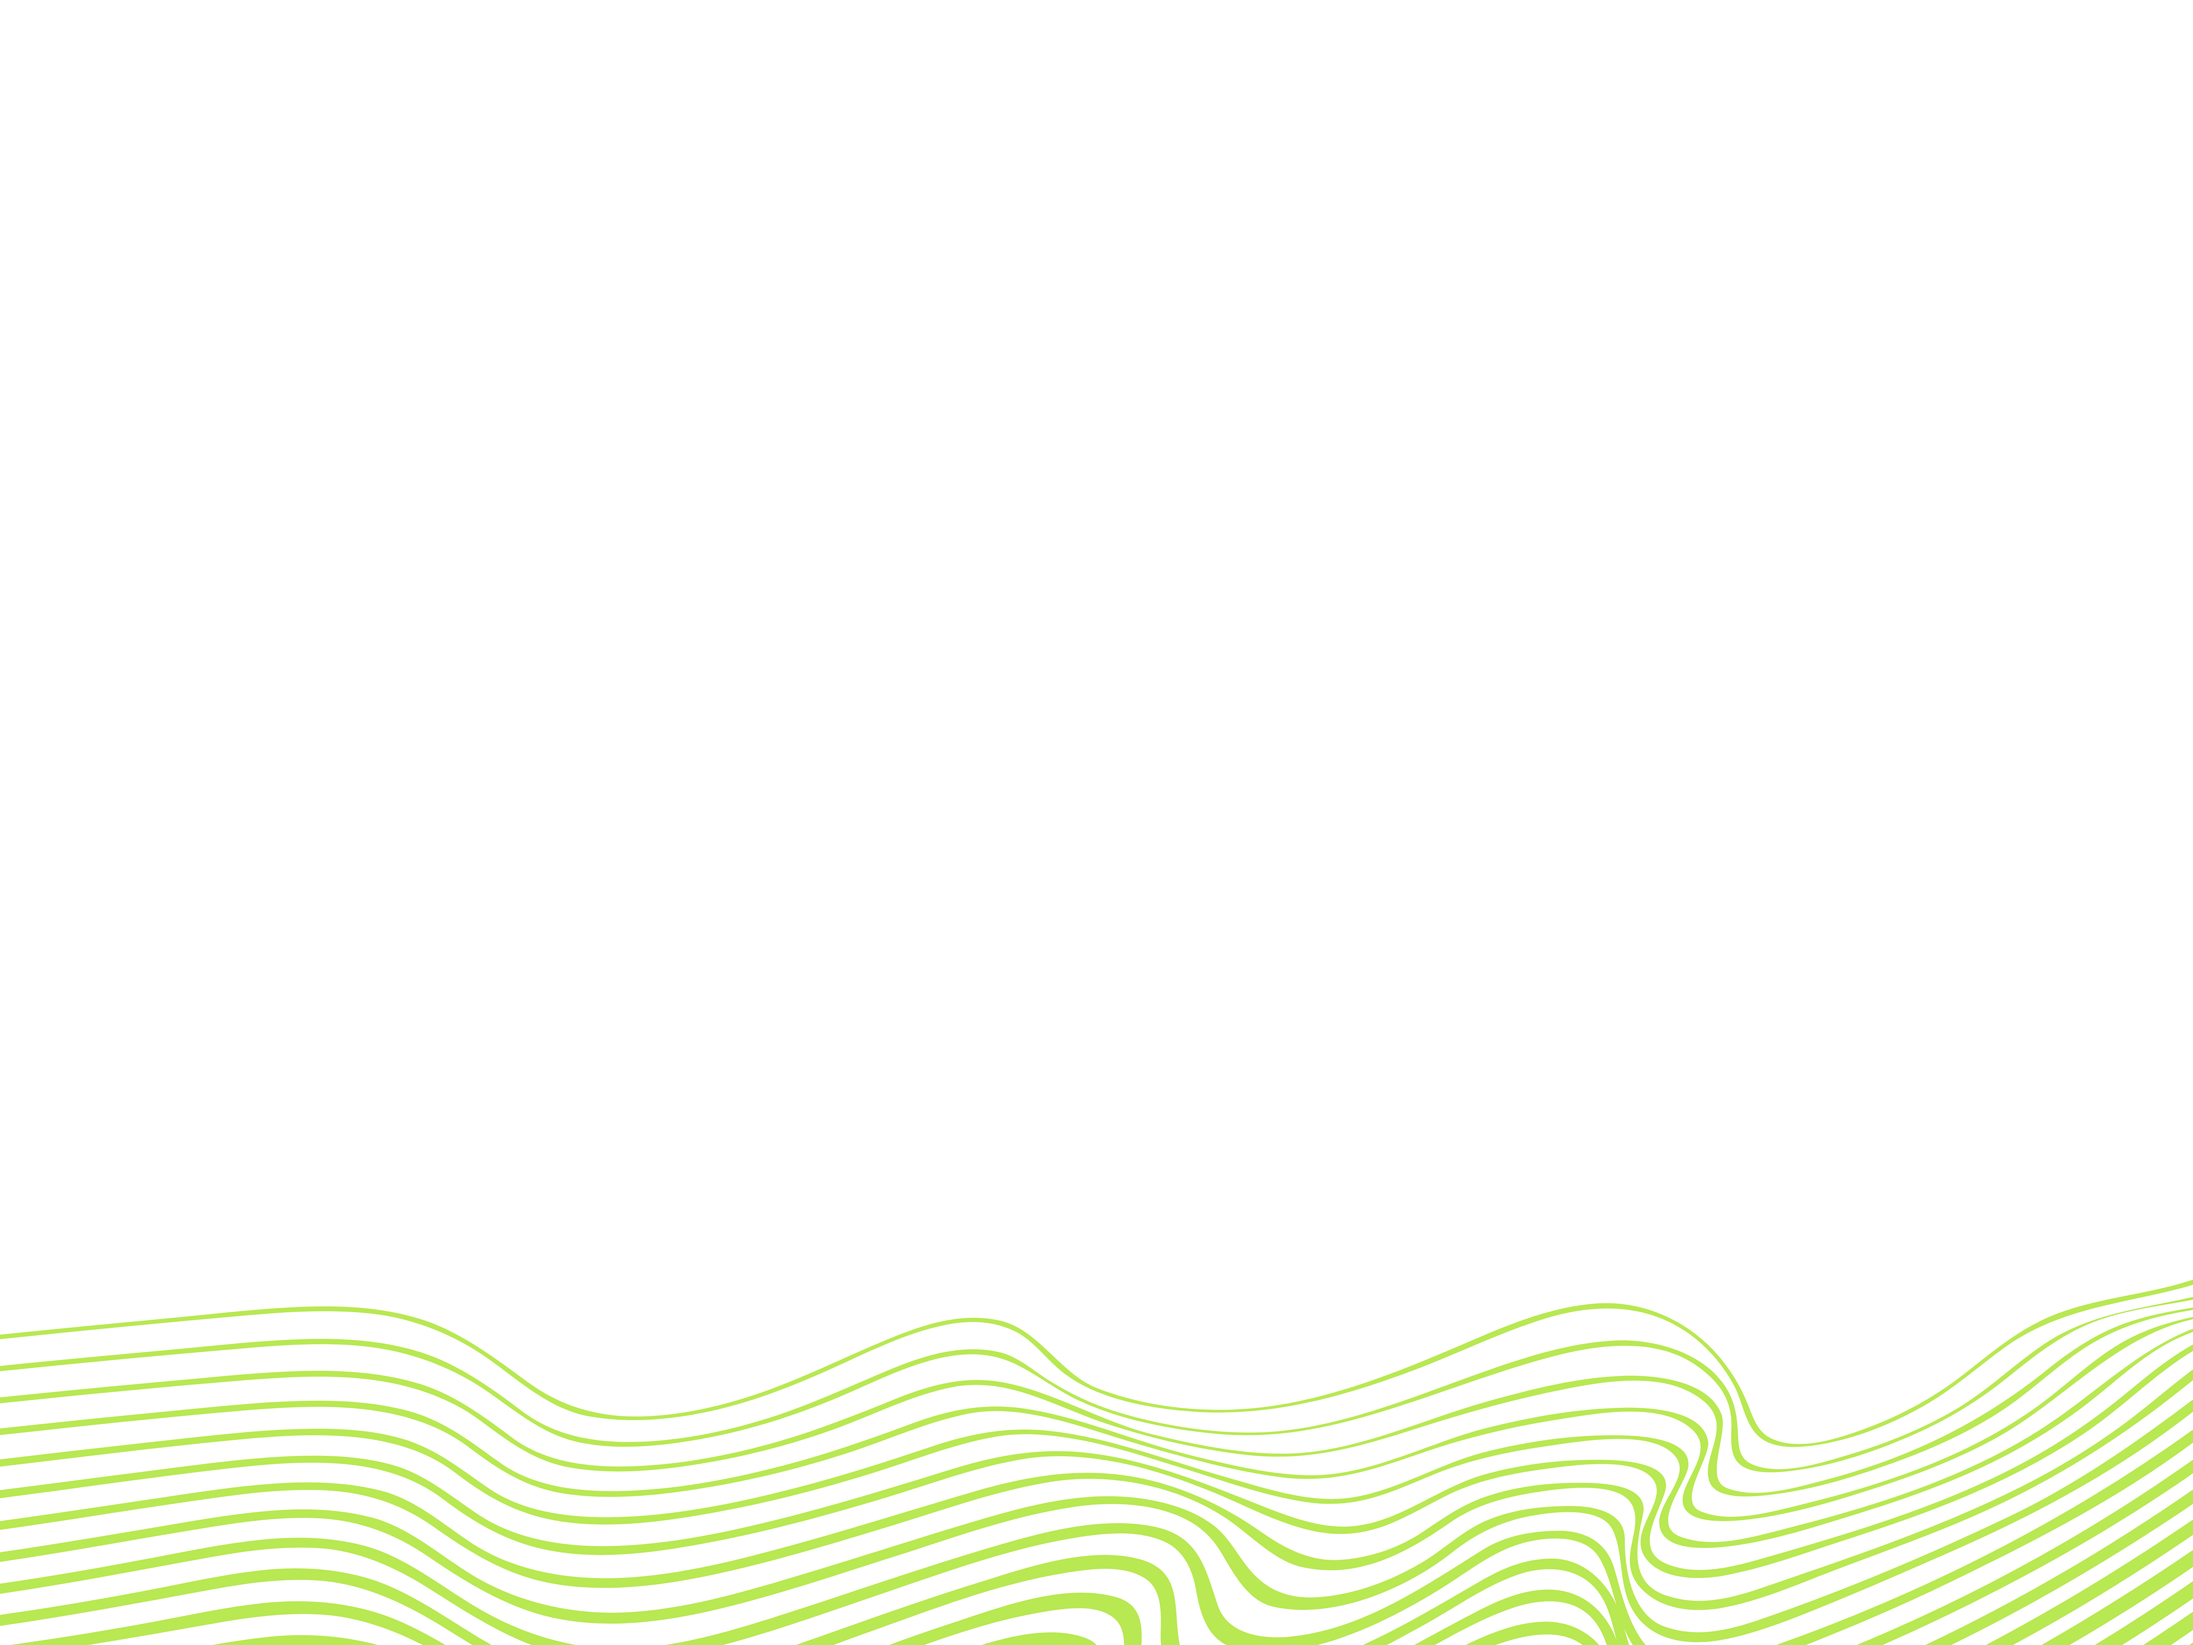
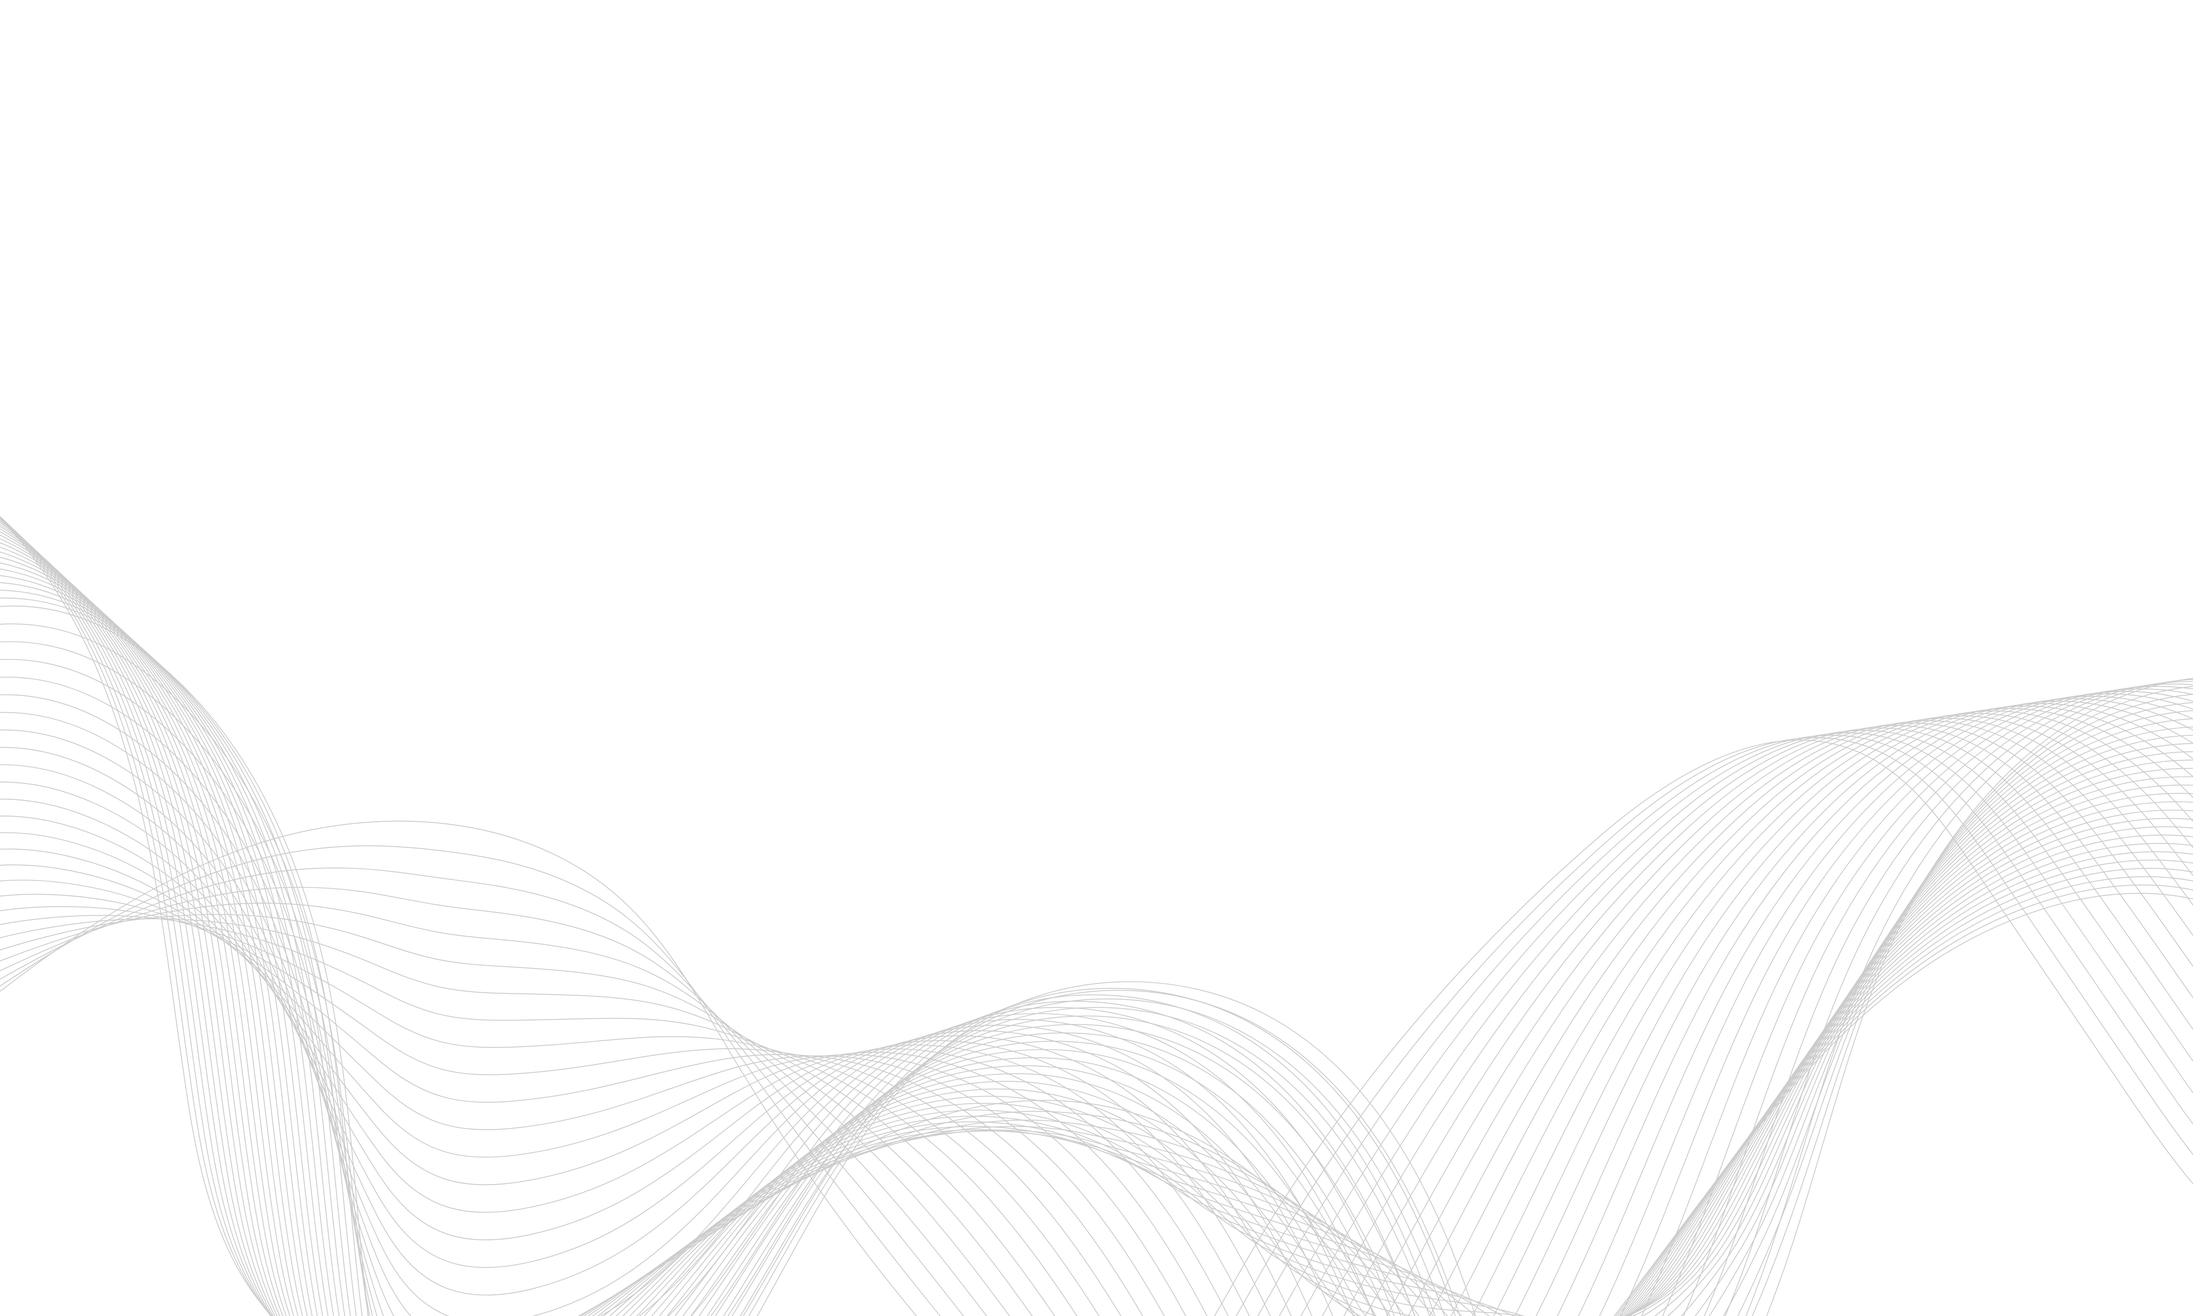
commit 3

Changed region(s): [[0.0, 0.4056, 1.0, 1.0], [0.0, 0.7176, 0.0312, 0.7488]]

diff --git a/src/components/Contsct/Contsct.css b/src/components/Contsct/Contsct.css
@@ -45,13 +45,15 @@ label {
     width: 70vh;
     padding: 10px;
     border: none;
-    margin-bottom: 20px;
+    margin-: 10px;
     border-radius: 5px;
     background: linear-gradient(
-            to bottom,
-            rgba(14, 15, 14, 0.99),
-            rgba(24, 26, 24, 0.99),
-            rgba(45, 53, 45, 0.99)
+            to right,
+            rgba(5, 6, 2, 0.96),
+            rgba(17, 21, 6, 0.96),
+            rgba(22, 26, 7, 0.96),
+            rgba(25, 32, 9, 0.96),
+            rgba(32, 39, 11, 0.96)
     );
     color: white;
     font-family: Arial, sans-serif;
@@ -87,16 +89,5 @@ label {
 .contact-button:hover {
     background-color: rgba(123, 171, 20, 0.96);
     transform: scale(1.05);
-}
-
-@media screen and (max-width: 768px) {
-    .contact-form {
-        width: 90%;
-    }
-
-    .contact-input,
-    .contact-textarea {
-        width: 100%;
-    }
 }
 

diff --git a/src/components/Skills/Skills.css b/src/components/Skills/Skills.css
@@ -15,10 +15,12 @@
     box-shadow: 0px 0px 3px white;
     padding: 20px;
     background: linear-gradient(
-            to bottom,
-            rgba(14, 15, 14, 0.99),
-            rgba(24, 26, 24, 0.99),
-            rgba(45, 53, 45, 0.99)
+            to right,
+            rgba(5, 6, 2, 0.96),
+            rgba(17, 21, 6, 0.96),
+            rgba(22, 26, 7, 0.96),
+            rgba(25, 32, 9, 0.96),
+            rgba(32, 39, 11, 0.96)
     );
 
 }
@@ -32,7 +34,7 @@
     margin: 20px;
     position: relative;
     margin-top: 30px;
-    margin-bottom: 30px;
+    margin-bottom: 50px;
 
 }
 

diff --git a/src/App.css b/src/App.css
@@ -1,9 +1,18 @@
 body {
-    background-color: rgba(18, 20, 18, 0.96);
+    /*background-color: rgba(13, 17, 5, 0.96);*/
+    background: linear-gradient(
+            to right,
+            rgba(5, 6, 2, 0.96),
+            rgba(12, 14, 4, 0.96),
+            rgba(22, 25, 7, 0.96),
+            rgba(12, 14, 4, 0.96),
+            rgba(5, 6, 2, 0.96)
+    );
 }
 
+
 .page-container {
-    background-image: url('./assets/app.png');
+    background-image: url('./assets/app3.png');
     background-repeat: no-repeat;
     background-size: cover;
     background-attachment: fixed;

diff --git a/src/components/Header/Header.css b/src/components/Header/Header.css
@@ -5,10 +5,12 @@
     width: 100%;
     height: 80px;
     background: linear-gradient(
-            to bottom,
-            rgb(14, 15, 14),
-            rgb(24, 26, 24),
-            rgb(45, 53, 45)
+            to right,
+            rgba(5, 6, 2, 0.96),
+            rgba(17, 21, 6, 0.96),
+            rgba(22, 26, 7, 0.96),
+            rgba(25, 32, 9, 0.96),
+            rgba(32, 39, 11, 0.96)
     );
     transition: transform 0.3s ease-in-out;
     transform: translateY(0);

diff --git a/src/components/Footer/Footer.css b/src/components/Footer/Footer.css
@@ -4,10 +4,12 @@
     left: 0;
     width: 100%;
     background: linear-gradient(
-            to bottom,
-            rgb(14, 15, 14),
-            rgb(24, 26, 24),
-            rgb(45, 53, 45)
+            to right,
+            rgba(5, 6, 2, 0.96),
+            rgba(17, 21, 6, 0.96),
+            rgba(22, 26, 7, 0.96),
+            rgba(25, 32, 9, 0.96),
+            rgba(32, 39, 11, 0.96)
     );
 
     text-align: center;

diff --git a/src/components/About/About.css b/src/components/About/About.css
@@ -6,10 +6,12 @@
     /*background-color: rgba(7, 29, 3, 0.98);*/
   
     color: white;
-    /*background-image: url('../../assets/background2.png');*/
+    background-image: url('../../assets/photo.png');
     background-repeat: no-repeat;
-    background-position: center;
-    background-size: cover;
+    background-position: left;
+    background-size: 800px;
+
+
 
 
 

diff --git a/src/components/Header/Header.tsx b/src/components/Header/Header.tsx
@@ -1,6 +1,6 @@
 import React, { useEffect, useState } from 'react';
 import './Header.css';
-import logo from '../../assets/logo2.png';
+import logo from '../../assets/logo1.png';
 import linkedinLogo from '../../assets/linkedin.png';
 
 const Header = () => {
